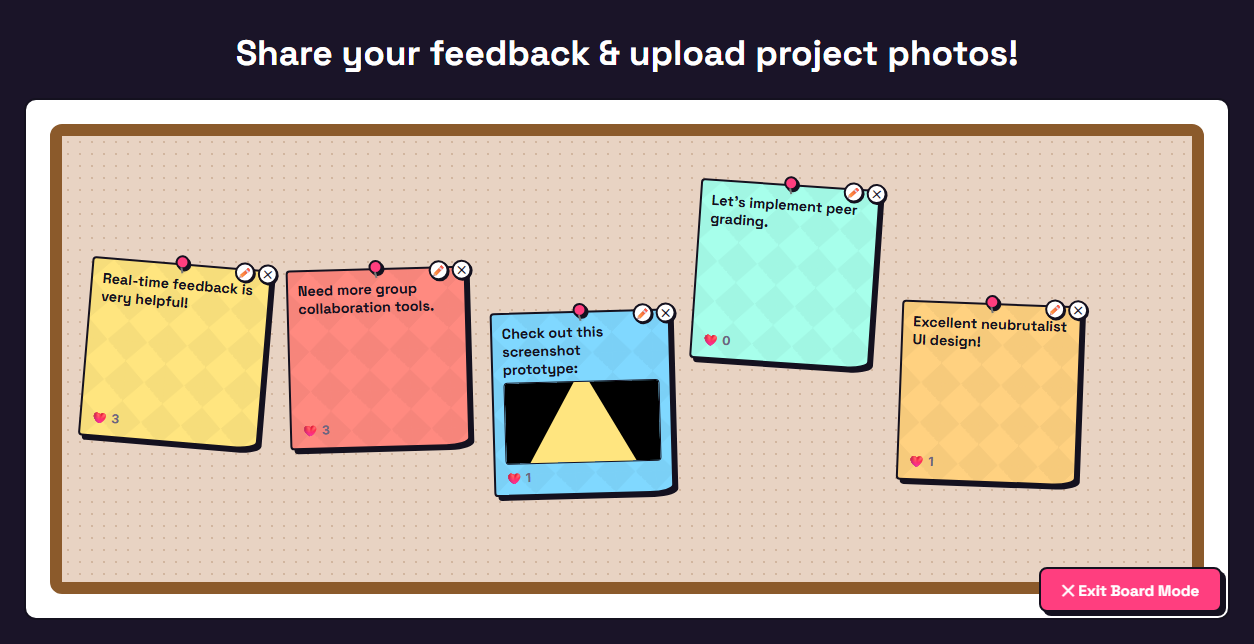
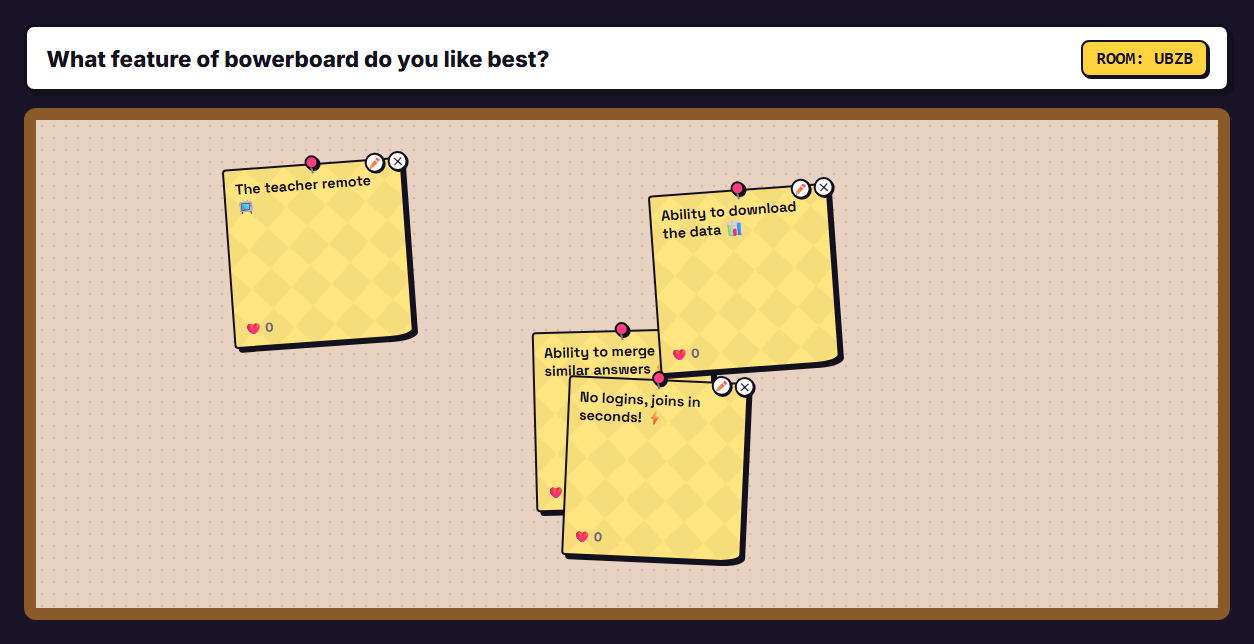
Update sticky note tile to real bowerboard USP screenshot, implement local storage recent bower history dashboard, and refine tooltip CSS for responsive mobile styling

diff --git a/index.html b/index.html
@@ -776,15 +776,65 @@
     0%, 100% { transform: translateY(0) rotate(-1deg); }
     50% { transform: translateY(-6px) rotate(1deg); }
   }
+  .cartoon-arrow-tooltip {
+    position: absolute;
+    top: -85px;
+    left: 10px;
+    background: var(--yellow);
+    color: var(--ink);
+    border: 3px solid var(--ink);
+    border-radius: 12px;
+    box-shadow: 4px 4px 0 var(--ink);
+    padding: 0.6rem 0.9rem;
+    font-size: 0.8rem;
+    font-weight: 800;
+    line-height: 1.25;
+    z-index: 100;
+    max-width: 220px;
+    text-align: left;
+    animation: floatArrow 2s infinite ease-in-out;
+    box-sizing: border-box;
+  }
+  .cartoon-arrow-tooltip::after {
+    content: '';
+    position: absolute;
+    bottom: -12px;
+    left: 40px;
+    width: 0;
+    height: 0;
+    border-left: 8px solid transparent;
+    border-right: 8px solid transparent;
+    border-top: 12px solid var(--ink);
+  }
+  .cartoon-arrow-tooltip::before {
+    content: '';
+    position: absolute;
+    bottom: -8px;
+    left: 41px;
+    width: 0;
+    height: 0;
+    border-left: 7px solid transparent;
+    border-right: 7px solid transparent;
+    border-top: 10px solid var(--yellow);
+    z-index: 1;
+  }
+  
   @media (max-width: 900px) {
     .cartoon-arrow-tooltip {
-      position: static !important;
-      margin: 0.5rem auto 1.5rem !important;
+      position: relative !important;
+      top: 0 !important;
+      left: 0 !important;
+      margin: 0.5rem 0 1.5rem 0 !important;
       max-width: 100% !important;
       width: 100% !important;
       transform: none !important;
-      box-sizing: border-box !important;
       animation: none !important;
+      text-align: center !important;
+      box-sizing: border-box !important;
+    }
+    .cartoon-arrow-tooltip::after,
+    .cartoon-arrow-tooltip::before {
+      display: none !important;
     }
   }
 </style>
@@ -1306,6 +1356,11 @@ async function kvSet(key, value) {
     const property = parts[2];
     const parsedValue = JSON.parse(value);
     
+    // Save to local history if it's a room config being created/written!
+    if (property === 'config' && parsedValue && parsedValue.type) {
+      saveRoomToHistory(code, parsedValue.type, parsedValue.prompt || '');
+    }
+    
     const upsertData = { code };
     upsertData[property] = parsedValue;
     upsertData['updated_at'] = new Date().toISOString();
@@ -1367,6 +1422,73 @@ function generateCode() {
   for (let i = 0; i < 4; i++) c += letters[Math.floor(Math.random() * letters.length)];
   return c;
 }
+
+function saveRoomToHistory(code, type, prompt) {
+  try {
+    const history = JSON.parse(localStorage.getItem('bowerboard_history') || '[]');
+    const filtered = history.filter(item => item.code !== code);
+    filtered.unshift({ code, type, prompt, date: Date.now() });
+    localStorage.setItem('bowerboard_history', JSON.stringify(filtered.slice(0, 5)));
+  } catch (e) {
+    console.error("Error saving room history:", e);
+  }
+}
+
+async function reopenBower(code, type) {
+  state.loading = true;
+  render();
+  const configRaw = await kvGet('room:' + code + ':config');
+  if (!configRaw) {
+    alert("Could not load this room. It may have expired or been deleted.");
+    state.loading = false;
+    render();
+    return;
+  }
+  const config = JSON.parse(configRaw);
+  
+  let words = [];
+  let posts = [];
+  let votes = [];
+  let responses = [];
+  let roster = [];
+  
+  if (type === 'wordcloud') {
+    const raw = await kvGet('room:' + code + ':words');
+    words = raw ? JSON.parse(raw) : [];
+  } else if (type === 'brainstorm' || type === 'sticky') {
+    const raw = await kvGet('room:' + code + ':posts');
+    posts = raw ? JSON.parse(raw) : [];
+  } else if (type === 'mc' || type === 'poll' || type === 'ranking') {
+    const raw = await kvGet('room:' + code + ':votes');
+    votes = raw ? JSON.parse(raw) : [];
+    if (type === 'poll') {
+      const respRaw = await kvGet('room:' + code + ':responses');
+      responses = respRaw ? JSON.parse(respRaw) : [];
+      const rostRaw = await kvGet('room:' + code + ':roster');
+      roster = rostRaw ? JSON.parse(rostRaw) : [];
+    }
+  }
+  
+  state = {
+    screen: 'teacherLive',
+    type,
+    code,
+    revealed: config.revealed,
+    revealMode: config.revealMode,
+    prompt: config.prompt,
+    options: config.options || [],
+    questions: config.questions || [],
+    words,
+    posts,
+    votes,
+    responses,
+    roster,
+    likesEnabled: config.likesEnabled || false,
+    requireNames: config.requireNames || false
+  };
+  render();
+}
+window.reopenBower = reopenBower;
 
 function getTargetRoom(s) {
   return (s.presentationMode && s.presentationMode !== 'classic') ? 'MOD-' + s.code : s.code;
@@ -1609,10 +1731,8 @@ function renderLanding() {
         <div class="cta-section" style="display:flex; flex-direction:column; gap:16px;">
           <div class="btn-row" style="display:flex; gap:16px; flex-wrap:wrap; justify-content:flex-start; margin-bottom:0.5rem; position:relative; margin-top:3.5rem;">
             <!-- Cartoon Arrow Tooltip -->
-            <div class="cartoon-arrow-tooltip sans" style="position:absolute; top:-70px; left:10px; background:var(--yellow); color:var(--ink); border:3px solid var(--ink); border-radius:12px; box-shadow:4px 4px 0 var(--ink); padding:0.6rem 0.9rem; font-size:0.8rem; font-weight:800; line-height:1.25; z-index:100; max-width:220px; text-align:left; animation: floatArrow 2s infinite ease-in-out;">
+            <div class="cartoon-arrow-tooltip sans">
               👉 Click through, choose a bower to build and try it out!
-              <div style="position:absolute; bottom:-12px; left:40px; width:0; height:0; border-left:8px solid transparent; border-right:8px solid transparent; border-top:12px solid var(--ink);"></div>
-              <div style="position:absolute; bottom:-7px; left:41px; width:0; height:0; border-left:7px solid transparent; border-right:7px solid transparent; border-top:10px solid var(--yellow);"></div>
             </div>
             
             <button class="btn-primary" id="btn-teacher">Build a bower</button>
@@ -1706,11 +1826,54 @@ function renderLanding() {
 
 function renderActivityPicker() {
   stopPolling();
+  const history = JSON.parse(localStorage.getItem('bowerboard_history') || '[]');
+  
+  let historyHtml = `
+    <div style="color:rgba(255,255,255,0.45); font-size:0.85rem; font-style:italic;">
+      No previous bowers found on this device.
+    </div>
+  `;
+  
+  if (history.length > 0) {
+    historyHtml = history.map(item => {
+      const dateStr = new Date(item.date).toLocaleDateString(undefined, { month: 'short', day: 'numeric', hour: '2-digit', minute: '2-digit' });
+      const typeLabel = {
+        'wordcloud': 'Word Cloud',
+        'sticky': 'Sticky Notes',
+        'mc': 'Multiple Choice',
+        'poll': 'Slider Poll',
+        'ranking': 'Ranking Task',
+        'brainstorm': 'Brainstorm'
+      }[item.type] || item.type;
+      
+      const cleanPrompt = item.prompt.length > 60 ? item.prompt.substring(0, 57) + '...' : item.prompt;
+      
+      return `
+        <div style="background:#fff; border:2.5px solid var(--ink); border-radius:10px; padding:0.75rem 1rem; display:flex; justify-content:space-between; align-items:center; gap:1rem; box-shadow:3px 3px 0 var(--ink); color:var(--ink);">
+          <div style="flex:1; min-width:0; text-align:left;">
+            <div style="display:flex; align-items:center; gap:0.5rem; flex-wrap:wrap; margin-bottom:0.25rem;">
+              <span style="font-family:monospace; font-weight:800; font-size:0.85rem; background:var(--yellow); border:1.5px solid var(--ink); padding:0.15rem 0.4rem; border-radius:4px;">${item.code}</span>
+              <span style="font-size:0.75rem; font-weight:700; background:#E8E4F7; padding:0.15rem 0.4rem; border-radius:4px; color:var(--ink);">${typeLabel}</span>
+              <span style="font-size:0.7rem; color:var(--muted);">${dateStr}</span>
+            </div>
+            <div style="font-size:0.8rem; font-weight:600; color:var(--ink); overflow:hidden; text-overflow:ellipsis; white-space:nowrap;">
+              ${escapeHtml(cleanPrompt || '(No question topic)')}
+            </div>
+          </div>
+          <button class="btn-primary sans" onclick="reopenBower('${item.code}', '${item.type}')" style="padding:0.4rem 0.8rem; font-size:0.75rem; border-radius:6px; box-shadow:2px 2px 0 var(--ink); flex-shrink:0;">
+            Resume
+          </button>
+        </div>
+      `;
+    }).join('');
+  }
+
   app.innerHTML = `
     <div class="screen">
       <button class="back-btn sans" id="btn-back">← back</button>
-      <div style="font-size:1.6rem;font-weight:700;">Choose the bower you want to create</div>
-      <div class="activity-grid">
+      <div style="font-size:1.6rem;font-weight:700;font-family:'Outfit',sans-serif;color:#fff;">Choose the bower you want to create</div>
+      
+      <div class="activity-grid" style="margin-top:1rem;">
         <button class="activity-card sans" id="pick-wordcloud">
           <div class="activity-card-title">Word Cloud</div>
           <div class="activity-card-desc">Students type a word or phrase. Answers grow bigger the more people say them.</div>
@@ -1736,7 +1899,18 @@ function renderActivityPicker() {
           <div class="activity-card-desc">Students rank multiple items. The graph shows the class consensus using Borda points.</div>
         </button>
       </div>
+
+      <!-- Recent Bowers Section -->
+      <div class="recent-bowers-container sans" style="width:100%; max-width:680px; margin-top:2.5rem; text-align:left; box-sizing:border-box;">
+        <h3 style="font-family:'Outfit', sans-serif; font-size:1.15rem; font-weight:900; color:#fff; margin-bottom:1rem; border-bottom:2px solid rgba(255,255,255,0.15); padding-bottom:0.4rem;">
+          Your Recent Bowers (local history)
+        </h3>
+        <div style="display:flex; flex-direction:column; gap:0.75rem;">
+          ${historyHtml}
+        </div>
+      </div>
     </div>`;
+    
   document.getElementById('btn-back').onclick = () => { state = { screen: 'landing' }; render(); };
   document.getElementById('pick-wordcloud').onclick = () => { state = { screen: 'teacherSetup', activityType: 'wordcloud' }; render(); };
   document.getElementById('pick-mc').onclick = () => { state = { screen: 'teacherSetup', activityType: 'mc', options: ['', ''], allowMultiple: false, correctIndex: null }; render(); };